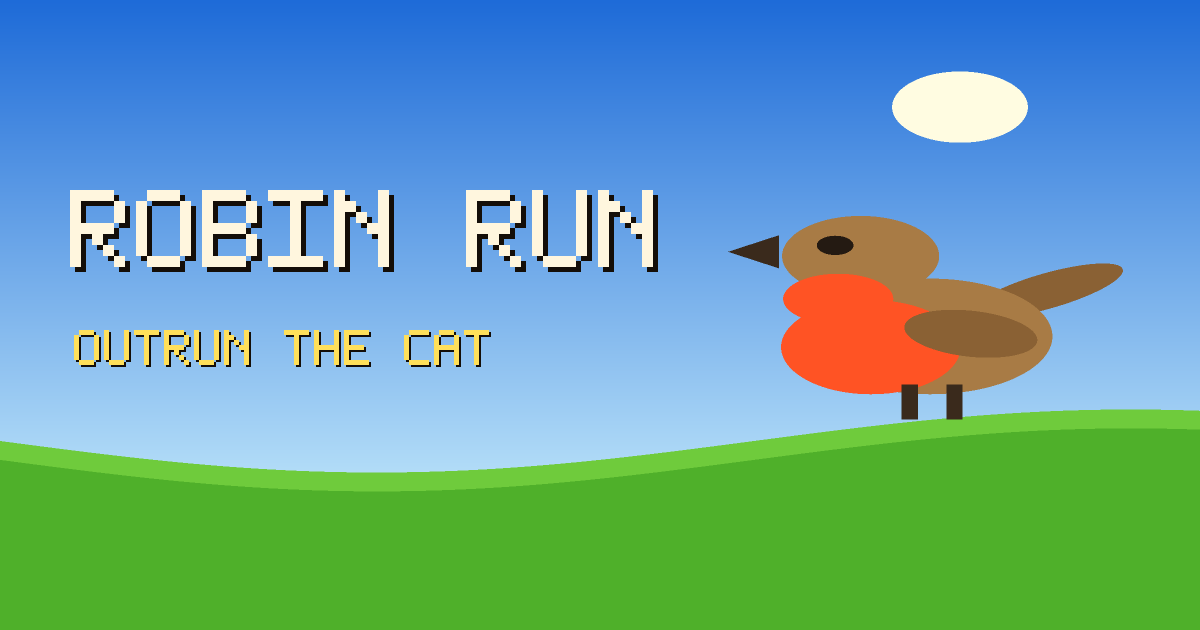
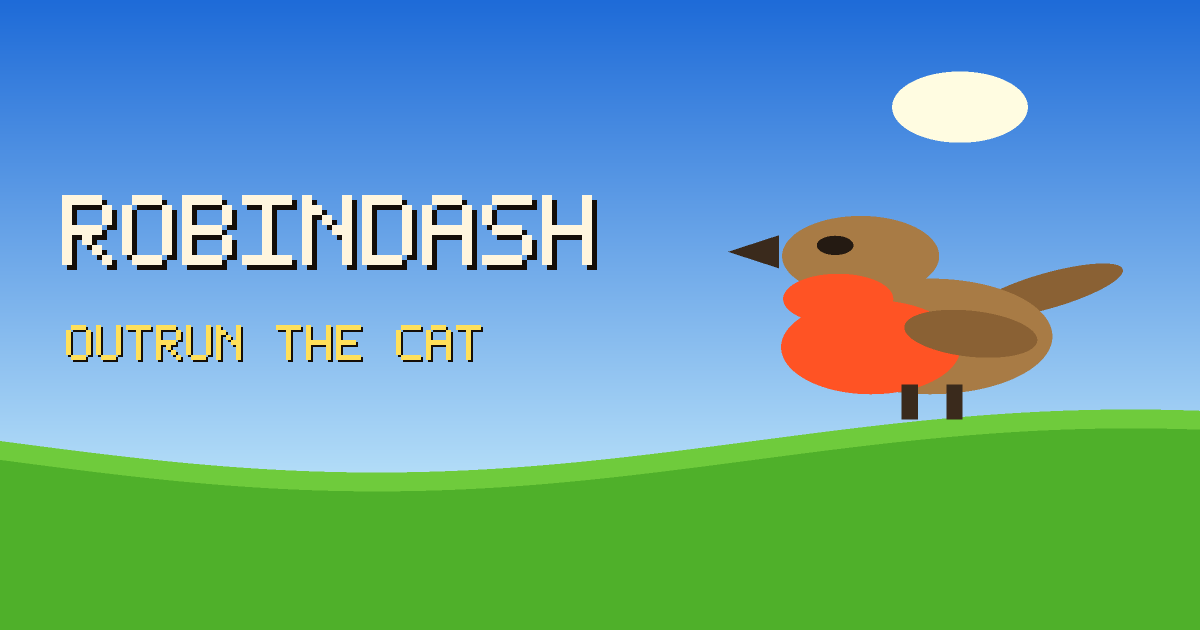
Rename the game to RobinDash
"Robin Run" was a placeholder, and it turned out to be unfindable:
the whole first page of Google for that phrase belongs to Robin Run
Village, a large retirement community in Indianapolis. No amount of
tuning was going to outrank it.

RobinDash has no competition at all, so the game can rank for its own
name. Renames the page, heading, home screen label, manifest, README
and repository, and regenerates the social card artwork.

Also adds VideoGame structured data so search engines file it as a
game with a genre, platform and price rather than an unidentified
page, and points the canonical URL, sitemap and robots.txt at the new
address.

High score keys in local storage are deliberately unchanged, so
nobody loses their best run to the rename.

Changed region(s): [[0.0308, 0.3016, 0.555, 0.4524], [0.0308, 0.5127, 0.4317, 0.6032]]

diff --git a/index.html b/index.html
@@ -3,32 +3,51 @@
 <head>
 <meta charset="utf-8">
 <meta name="viewport" content="width=device-width,initial-scale=1,viewport-fit=cover,user-scalable=no">
-<title>Robin Run</title>
-<meta name="description" content="A sunny-garden endless runner. Flap, tuck and hop your robin past the pots, feeders and scarecrows before the cat catches you.">
-<link rel="canonical" href="https://amgr0774.github.io/robin-run/">
+<title>RobinDash</title>
+<meta name="description" content="RobinDash is a free 3D endless runner. Play a robin in a sunny garden, flapping over flower pots, tucking under bird feeders and dodging stone walls while a cat chases you down.">
+<link rel="canonical" href="https://amgr0774.github.io/robindash/">
 
 <!-- how the link looks when it is shared in a message or posted -->
 <meta property="og:type" content="website">
-<meta property="og:site_name" content="Robin Run">
-<meta property="og:title" content="Robin Run - outrun the cat">
-<meta property="og:description" content="A 3D endless runner in a sunny garden. Play a robin, dodge the pots, feeders and scarecrows, and stay ahead of the cat. Free, plays in the browser, installs to your home screen.">
-<meta property="og:url" content="https://amgr0774.github.io/robin-run/">
-<meta property="og:image" content="https://amgr0774.github.io/robin-run/social-card.png">
+<meta property="og:site_name" content="RobinDash">
+<meta property="og:title" content="RobinDash - outrun the cat">
+<meta property="og:description" content="A free 3D endless runner in a sunny garden. Play a robin, dodge the pots, feeders and scarecrows, and stay ahead of the cat. Plays in any browser, installs to your home screen.">
+<meta property="og:url" content="https://amgr0774.github.io/robindash/">
+<meta property="og:image" content="https://amgr0774.github.io/robindash/social-card.png">
 <meta property="og:image:width" content="1200">
 <meta property="og:image:height" content="630">
-<meta property="og:image:alt" content="A robin standing on a sunny lawn beside the words Robin Run.">
+<meta property="og:image:alt" content="A robin standing on a sunny lawn beside the word RobinDash.">
 <meta name="twitter:card" content="summary_large_image">
-<meta name="twitter:title" content="Robin Run - outrun the cat">
-<meta name="twitter:description" content="A 3D endless runner in a sunny garden. Play a robin, stay ahead of the cat.">
-<meta name="twitter:image" content="https://amgr0774.github.io/robin-run/social-card.png">
+<meta name="twitter:title" content="RobinDash - outrun the cat">
+<meta name="twitter:description" content="A free 3D endless runner. Play a robin, stay ahead of the cat.">
+<meta name="twitter:image" content="https://amgr0774.github.io/robindash/social-card.png">
 
 <link rel="manifest" href="manifest.webmanifest">
 <meta name="theme-color" content="#141A10">
 <meta name="mobile-web-app-capable" content="yes">
 <meta name="apple-mobile-web-app-capable" content="yes">
 <meta name="apple-mobile-web-app-status-bar-style" content="black-translucent">
-<meta name="apple-mobile-web-app-title" content="Robin Run">
+<meta name="apple-mobile-web-app-title" content="RobinDash">
 <link rel="apple-touch-icon" href="apple-touch-icon.png">
+
+<script type="application/ld+json">
+{
+  "@context": "https://schema.org",
+  "@type": "VideoGame",
+  "name": "RobinDash",
+  "alternateName": "Robin Dash",
+  "url": "https://amgr0774.github.io/robindash/",
+  "image": "https://amgr0774.github.io/robindash/social-card.png",
+  "description": "A free 3D endless runner set in a sunny garden. Play a robin, flap over flower pots, tuck under bird feeders and dodge stone walls and scarecrows while a cat chases you.",
+  "genre": ["Endless runner", "Arcade", "Casual"],
+  "gamePlatform": ["Web browser", "Android", "iOS"],
+  "applicationCategory": "Game",
+  "operatingSystem": "Any",
+  "playMode": "SinglePlayer",
+  "inLanguage": "en",
+  "offers": { "@type": "Offer", "price": "0", "priceCurrency": "USD" }
+}
+</script>
 <link rel="icon" type="image/png" sizes="192x192" href="icon-192.png">
 
 <link rel="preconnect" href="https://fonts.googleapis.com">
@@ -229,7 +248,7 @@
 </head>
 <body>
 <div class="masthead">
-  <h1>Robin Run</h1>
+  <h1>RobinDash</h1>
   <span class="sub">Endless · Sunny Garden</span>
 </div>
 

diff --git a/sw.js b/sw.js
@@ -1,5 +1,5 @@
 /* Robin Run - offline cache */
-var CACHE = 'robin-run-v5';
+var CACHE = 'robindash-v1';
 var ASSETS = [
   './',
   './index.html',

diff --git a/README.md b/README.md
@@ -1,4 +1,4 @@
-# Robin Run
+# RobinDash
 
 A 3D endless runner set in a sunny garden. You play a robin. A cat is chasing you.
 Flap over the flower pots, tuck under the bird feeders, and go around the stone walls
@@ -35,12 +35,12 @@ Feathers are worth 10 points. The golden berry pulls every feather to you for 8 
 Pages serves over HTTPS, which the offline worker requires. On a free account the
 repository has to be **public** for Pages to work.
 
-1. Create an empty repository at <https://github.com/new>, named `robin-run`.
+1. Create an empty repository at <https://github.com/new>, named `robindash`.
    Do not add a README, licence or `.gitignore` — this folder already has what it needs.
 2. Back here, connect it and push. Replace `YOUR-USERNAME`:
 
    ```bash
-   git remote add origin https://github.com/YOUR-USERNAME/robin-run.git
+   git remote add origin https://github.com/YOUR-USERNAME/robindash.git
    git push -u origin main
    ```
 
@@ -50,7 +50,7 @@ repository has to be **public** for Pages to work.
 4. Wait a minute or two. The address will be:
 
    ```
-   https://YOUR-USERNAME.github.io/robin-run/
+   https://YOUR-USERNAME.github.io/robindash/
    ```
 
 ## Installing it on a phone
@@ -78,5 +78,5 @@ Pages redeploys on its own within a minute or so.
 
 One gotcha: the service worker caches everything, so a phone that already has the
 game installed may keep showing the old version. Bump the `CACHE` name near the top
-of `sw.js` (`robin-run-v1` → `robin-run-v2`) whenever you change the game, and the
+of `sw.js` (`robindash-v1` → `robindash-v2`) whenever you change the game, and the
 next visit will pull the new files.
